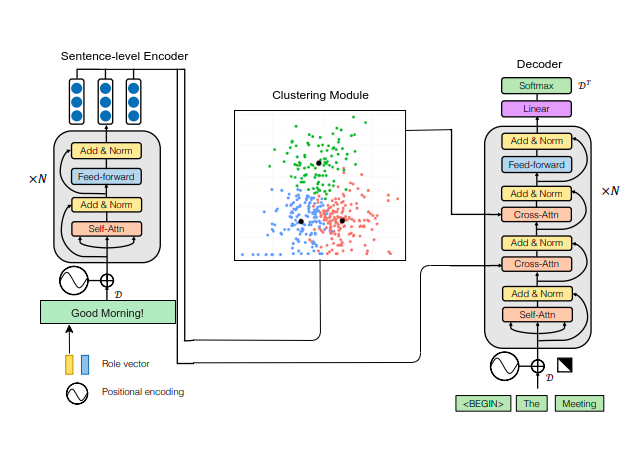
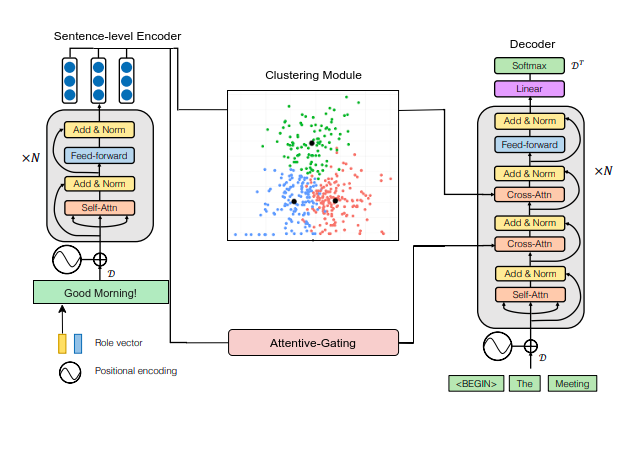
added the attentive gating module and revised the README

diff --git a/README.md b/README.md
@@ -12,8 +12,9 @@ This repository provides a solution by levaraging extractive summarization techn
 [[2]](#2) makes use of extractive text summarization by utilizing the BERT model for sentence embeddings and K-Means clustering to identify sentences closest to the centroid for summary selection. The top 'n' sentences are then selected as part of the summary.<br>
 
 - The proposed model incorporates both the above ideas by making the summary in the decoder attend not only to the role-based meeting text but also the 'n' top ranked turns/sentences of the meeting.
-- This provides the decoder with more important information from the meeting so that their meaning can be incorporated into the summary. 
+- The output from the encoder is passed through an Attentive Gating module that uses an exponential function to scale the attentive weights such that unimportant turns are disregarded.
 - The turn-level encoder is replaced by the clustering module which returns the top 'n' sentences based on the number of clusters formed.
+- This provides the decoder with relevant information from the meeting by putting more emphasis on the important turns while supressing the insignificant ones.
 - Moreover, sentence embeddings are used as input to the encoder instead of word embeddings(used by HMNet) which help in clustering and also reduce dimensionality for the otherwise large meeting samples.
 - The role vector is concatenated to the sentence-level encoder instead of the turn-level encoder(which is removed altogether) as sentence embeddings already encode the textual information aptly.
 
